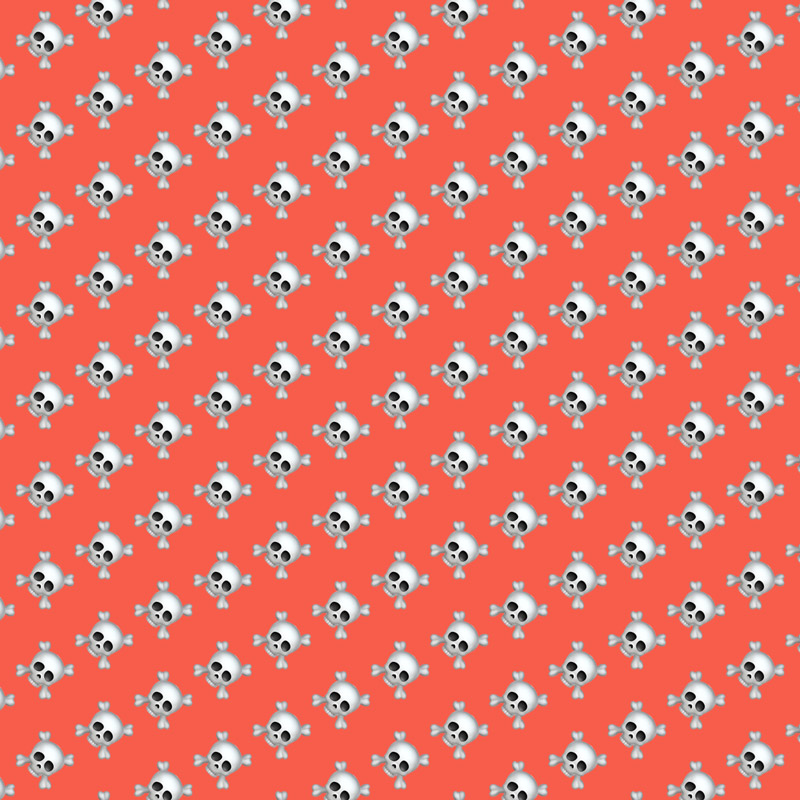
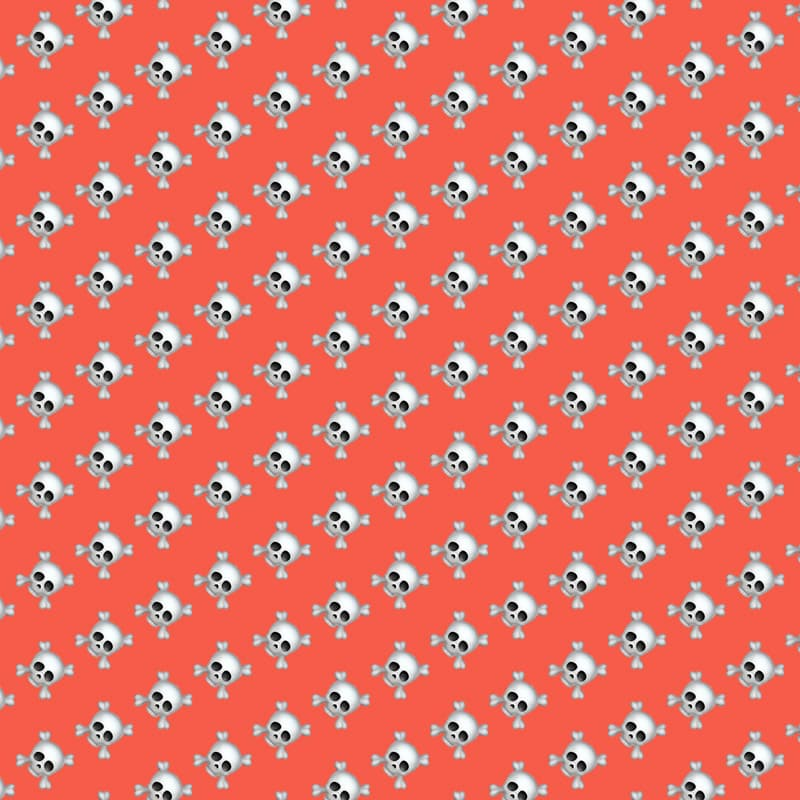
Optimize images, change styles, fix link

diff --git a/index.html b/index.html
@@ -77,13 +77,12 @@
           </p>
           <a href="#math" onclick="event.preventDefault();document.getElementById('math').scrollIntoView({ behavior: 'smooth' });">Следуйте вниз, господа</a>
         </section>
-        <section class="main__intr__img">
+          <figure class="main__intr__img">
           <picture>
             <source
               srcset="
                 /src/images/large/bg.webp   1200w,
-                /src/images/medium/bg.webp   800w,
-                /src/images/small/bg.webp    400w
+                /src/images/medium/bg.webp   800w
               "
               sizes="100%"
               type="image/webp"
@@ -91,15 +90,14 @@
             <source
               srcset="
                 /src/images/large/bg.jpg   1200w,
-                /src/images/medium/bg.jpg   800w,
-                /src/images/small/bg.jpg    400w
+                /src/images/medium/bg.jpg   800w
               "
               sizes="100%"
             />
             <img src="/src/images/bg.jpg" alt="maths-physics-chemistry-constants" loading="lazy" />
           </picture>
-          <span>Просто красивая картинка</span>
-        </section>
+          <figcaption>Просто красивая картинка ↑</figcaption>
+        </figure>
       </section>
       <section class="main__math" id="math">
         <h2>Математика</h2>
@@ -1690,7 +1688,7 @@
     </main>
     <footer>
       <p>
-        <a href="https://davidkistauri.now.sh" target="_blank" rel="noopener">Давид Кистаури.</a><br />
+        <a href="https://davidkistauri.ru" target="_blank" rel="noopener">Давид Кистаури.</a><br />
         Создано <s>при поддержке</s> самостоятельно.<br />Написать "спасибо"
         можно сюда:
       </p>

diff --git a/src/styles/main.css b/src/styles/main.css
@@ -35,7 +35,7 @@ html {
 body {
   overflow-x: hidden;
   margin: 0;
-  background: var(--main-bg-to-black);
+  background: var(--main-bg);
 }
 
 header,
@@ -86,6 +86,8 @@ section.main__intr a:hover {
 }
 
 main {
+  max-width: 1200px;
+  margin: 0 auto;
   background-color: var(--main-bg);
 }
 
@@ -191,12 +193,6 @@ a:hover {
 
 span {
   display: block;
-}
-
-picture {
-  display: flex;
-  height: 100%;
-  width: 100%;
 }
 
 table {
@@ -340,14 +336,11 @@ td.gra {
 
 img {
   width: 100%;
-  height: 100%;
-  object-fit: cover;
 }
 
 section.main__intr {
   grid-template-columns: 1fr 1fr;
   padding-top: 4rem;
-  min-height: calc(100vh - 4rem);
 }
 
 section.main__intr a {
@@ -363,20 +356,6 @@ section.main__chem {
 
 section.main__intr__txt p {
   color: var(--main-fg);
-}
-
-section.main__intr__img {
-  position: relative;
-}
-
-section.main__intr__img span {
-  position: absolute;
-  bottom: var(--secondary-padding);
-  left: var(--secondary-padding);
-  padding: 0.5rem;
-  line-height: 1em;
-  color: var(--main-fg);
-  background-color: var(--main-bg);
 }
 
 section.main__math,
@@ -433,4 +412,17 @@ section.table-container {
 
 section.table-container::-webkit-scrollbar {
   height: 0;
+}
+
+figure.main__intr__img {
+  position: relative;
+  margin: 0;
+}
+
+figcaption {
+  margin-top: 0.8rem;
+  margin-bottom: 1rem;
+  line-height: 1em;
+  color: var(--main-fg);
+  background-color: var(--main-bg);
 }

diff --git a/404.html b/404.html
@@ -129,13 +129,12 @@
           </p>
           <a href="/">Идти назад</a>
         </section>
-        <section class="main__intr__img">
+        <figure class="main__intr__img">
           <picture>
             <source
               srcset="
                 /src/images/large/error.webp  1200w,
-                /src/images/medium/error.webp  800w,
-                /src/images/small/error.webp   400w
+                /src/images/medium/error.webp  800w
               "
               sizes="100%"
               type="image/webp"
@@ -143,8 +142,7 @@
             <source
               srcset="
                 /src/images/large/error.jpg  1200w,
-                /src/images/medium/error.jpg  800w,
-                /src/images/small/error.jpg   400w
+                /src/images/medium/error.jpg  800w
               "
               sizes="100%"
             />
@@ -154,8 +152,8 @@
               loading="lazy"
             />
           </picture>
-          <span>Просто прикольные черепки</span>
-        </section>
+          <figcaption>Просто прикольные черепки ↑</figcaption>
+        </figure>
       </section>
     </main>
   </body>

diff --git a/src/styles/mobile.css b/src/styles/mobile.css
@@ -31,10 +31,12 @@
   }
   section.main__intr {
     padding-top: 0;
-    min-height: unset;
   }
   img {
     width: 100vw;
+  }
+  figcaption {
+    margin: 0.8rem var(--secondary-padding) 1rem var(--secondary-padding);
   }
 }
 
